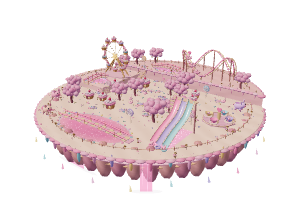
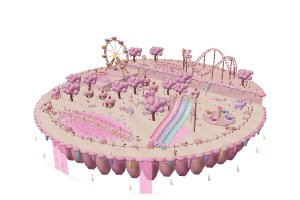
Polish cotton island water, seating and mobile persistence

diff --git a/public/world.js b/public/world.js
@@ -248,7 +248,11 @@ export function createWorld(container, initialGame, callbacks = {}) {
     const p = initialGame.catPosition,
       b = byBiome(p.biome);
     if (b)
-      chichiCarrier.position.set(b.center[0] + p.x, 0.16, b.center[1] + p.z);
+      chichiCarrier.position.set(
+        b.center[0] + p.x,
+        0.16 + islandHeight(b.id, p.x, p.z),
+        b.center[1] + p.z,
+      );
   }
   let heroGather = null,
     gatherUntil = 0;
@@ -1144,7 +1148,7 @@ export function createWorld(container, initialGame, callbacks = {}) {
         .add(new THREE.Vector3(0, 0.9, 0))
         .project(camera);
       const nearCat =
-        distance < 80 &&
+        distance < Math.max(80, (byBiome(focused)?.radius || 12) * 7) &&
         Math.hypot(
           e.clientX - (bounds.left + ((projected.x + 1) * bounds.width) / 2),
           e.clientY - (bounds.top + ((1 - projected.y) * bounds.height) / 2),
@@ -1666,7 +1670,13 @@ export function createWorld(container, initialGame, callbacks = {}) {
         const wanderRadius = b.arrival ? 11.8 : 6;
         x = b.center[0] + Math.sin(time * 0.07 + n.index * 2.4) * wanderRadius;
         z = b.center[1] + Math.cos(time * 0.07 + n.index * 2.4) * wanderRadius;
-        n.carrier.position.y = 0.16;
+        n.carrier.position.y =
+          0.16 +
+          islandHeight(
+            b.id,
+            n.carrier.position.x - b.center[0],
+            n.carrier.position.z - b.center[1],
+          );
       }
       const direction = new THREE.Vector3(x, n.carrier.position.y, z).sub(
         n.carrier.position,
@@ -2133,7 +2143,7 @@ export function createWorld(container, initialGame, callbacks = {}) {
       const arrival = b.arrival || [0, 0],
         to = new THREE.Vector3(
           b.center[0] + arrival[0],
-          0.16,
+          0.16 + islandHeight(b.id, arrival[0], arrival[1]),
           b.center[1] + arrival[1],
         );
       gatherUntil = performance.now() + 20000;

diff --git a/public/cotton-biome.js b/public/cotton-biome.js
@@ -7,7 +7,7 @@ import {
   surfaceTexture,
 } from "./fantasy-scenery.js";
 import { batchModelGeometry } from "./model-batching.js";
-import { createLagoon, createWaterfall } from "./lagoon.js";
+import { createLagoon, createWaterfall, waterMaterial } from "./lagoon.js";
 import {
   createSceneryModel,
   positionScenery,
@@ -326,8 +326,28 @@ export function createCottonBiome(
       [-21, -7, 1.6, 7.6, 1.2, -1.8],
       [8, -21.3, 1.9, 8, 2.4, 3],
     ];
-    for (const [x, z, w, h, y, rot] of falls) {
-      const f = createWaterfall(x, z, w, h, {
+    for (const [index, [x, z, w, h, y, rot]] of falls.entries()) {
+      const scale = index >= 3 ? 23.18 / Math.hypot(x, z) : 1,
+        fx = x * scale,
+        fz = z * scale;
+      if (index >= 3) {
+        const length = Math.hypot(fx - x, fz - z) + 0.3,
+          material = waterMaterial(0xf49cc8, 0.78),
+          stream = new THREE.Mesh(
+            new THREE.PlaneGeometry(w, length, 8, 16),
+            material,
+          );
+        stream.rotation.set(-Math.PI / 2, 0, -Math.atan2(fx - x, fz - z));
+        stream.position.set((x + fx) / 2, y + 0.16, (z + fz) / 2);
+        detail.add(stream);
+        animations.push({
+          userData: {
+            update: (t, reduced) =>
+              (material.uniforms.uTime.value = reduced ? 0 : t),
+          },
+        });
+      }
+      const f = createWaterfall(fx, fz, w, h, {
         color: 0xf69bc7,
         foam: 0xffedf7,
       });
@@ -526,6 +546,14 @@ export function createCottonBiome(
         [7, -5],
         [-3, 3],
         [9, 5],
+        [0, 0],
+        [1, 4],
+        [-3, -2],
+        [4, 4],
+        ...Array.from({ length: 81 }, (_, i) => [
+          (i % 9) * 2 - 8,
+          Math.floor(i / 9) * 2 - 8,
+        ]).filter(([x, z]) => Math.hypot(x, z) < 9),
       ].find(([x, z]) => clear(x, z, 2.4));
       if (spare) {
         mother.visible = true;

diff --git a/public/cotton-rides.js b/public/cotton-rides.js
@@ -469,7 +469,12 @@ export function cottonRide(id) {
       f = frame(elapsed, reduced);
     animated.forEach((a) => a.userData.update?.(time, reduced));
     if (id.startsWith("ride-pig-")) {
-      moving.position.set(f.position[0], f.position[1] - 1.56, f.position[2]);
+      const bodyBounce = moving.children[0].userData.body.position.y;
+      moving.position.set(
+        f.position[0],
+        f.position[1] - 1.56 - bodyBounce,
+        f.position[2],
+      );
       moving.rotation.y = f.yaw;
     } else if (wheel) {
       const a = reduced ? Math.PI : Math.PI + (elapsed / duration) * TAU;

diff --git a/public/cotton-data.js b/public/cotton-data.js
@@ -107,6 +107,9 @@ export function cottonHeight(x, z) {
 }
 export function cottonReservations() {
   return [
+    // Prevent new buildings from straddling the stepped cake terraces.
+    { x: 0, z: -11, w: 40, d: 0.4 },
+    { x: -11, z: -4, w: 0.4, d: 14 },
     ...COTTON_OBJECTS.map((o) => {
       const s = COTTON_RIDES.find((r) => r.id === o.type);
       return { x: o.x, z: o.z, w: s.footprint[0], d: s.footprint[1] };

diff --git a/public/index.html b/public/index.html
@@ -601,6 +601,6 @@
       </div>
     </dialog>
     <div id="toast" role="status" aria-live="polite" hidden></div>
-    <script type="module" src="./dist/app.js?v=08f3c3ff172fd4fb"></script>
+    <script type="module" src="./dist/app.js?v=58eb88cd8c8987bd"></script>
   </body>
 </html>

diff --git a/public/game-data.js b/public/game-data.js
@@ -1774,8 +1774,8 @@ export const CROPS = [
   },
   {
     id: "clock-pumpkin",
-    name: "Тыква часовщика",
-    icon: "⏳",
+    name: "Клубничная тыковка",
+    icon: "🍓",
     minutes: 150,
     seed: 10,
     value: 115,

diff --git a/docs/cotton-island.md b/docs/cotton-island.md
@@ -1,0 +1,31 @@
+# Cotton candy island
+
+The legendary **Остров сладкой ваты** replaces Clockwork using the existing
+`clockwork` save ID. It keeps the existing level 18 unlock, ownership, coins,
+purchased placements, crop/construction deadlines and decoration identities.
+Its radius is 23 (3.9× the area of an ordinary radius-11.65 island), with map
+center `[68, -68]` to leave space between neighbors. The former central building
+yard stays level. New purchases cannot straddle terrace seams.
+
+- `cotton-data.js`: shared, stable native IDs, pool bounds, reservations and terrain heights.
+- `cotton-props.js`: sculpted pigs with trot/blink/ear rigs, candy trees, cupcake houses and bridges.
+- `cotton-rides.js`: cupcake wheel, piglet express, teacups, three-lane slide and three pig mounts. Each has a finite ride path and an animated seat that follows the same clock as Chichi.
+- `cotton-biome.js`: stepped icing island, three pink swimming pools, eight animated waterfalls, instanced piglets and adaptive flower gardens. Trees and houses use the existing saved, movable scenery system.
+
+Native targets: `cotton-wheel`, `cotton-express`, `cotton-teacups`,
+`cotton-slide`, `cotton-pig-rose`, `cotton-pig-peach`, `cotton-pig-lilac`.
+Water: `lake-clockwork`, `lake-clockwork-upper`, `lake-clockwork-cascade`.
+All are exposed to AI only when the island is open, and manual drag uses the
+same validated IDs. The seven ride models are also available in the shop.
+
+The AI activity bound includes all permanent targets plus the existing 60
+purchased-placement limit. Static pastel geometry optionally batches tints into
+vertex colors while keeping texture maps and lighting response. Mobile cameras
+fit the larger island and retain its detailed layer when zoomed out.
+
+Validation: `npm test`, `npm run build`, and
+`npx --no-install wrangler deploy --dry-run`. Focused regression tests are in
+`test/cotton-island.test.mjs`: ride-seat synchronization, finite paths, AI/manual
+availability, real water openings, pig animation, tint batching and 30 save/load
+cycles preserving construction and crops. Preview production uses the existing
+`scripts/capture-previews.mjs` optional browser tool; generated PNGs are tracked.
